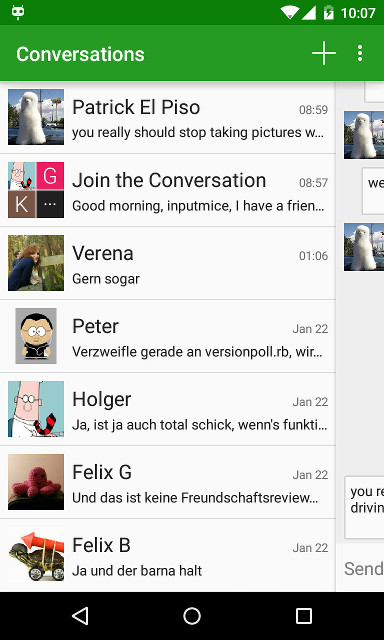
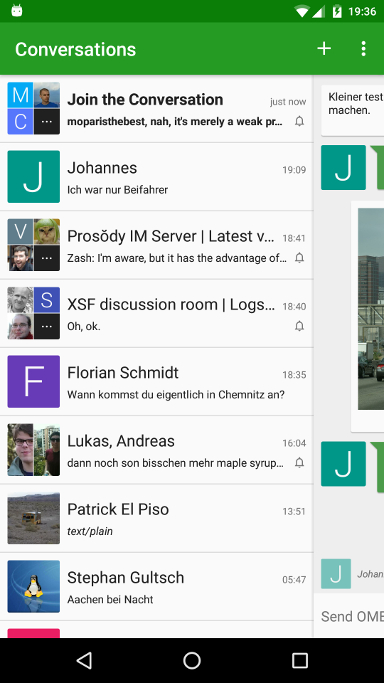
update some screenshots

diff --git a/index.html b/index.html
@@ -219,7 +219,7 @@
 
       <div class="col-lg-3" style="margin-bottom: 0px">
         <div class="thumbnail"><img class="img-responsive center-block" src=
-        "images/screenshot_qr_code.jpg"></div>
+        "images/screenshot_trust.jpg"></div>
       </div>
     </div>
   </div>
